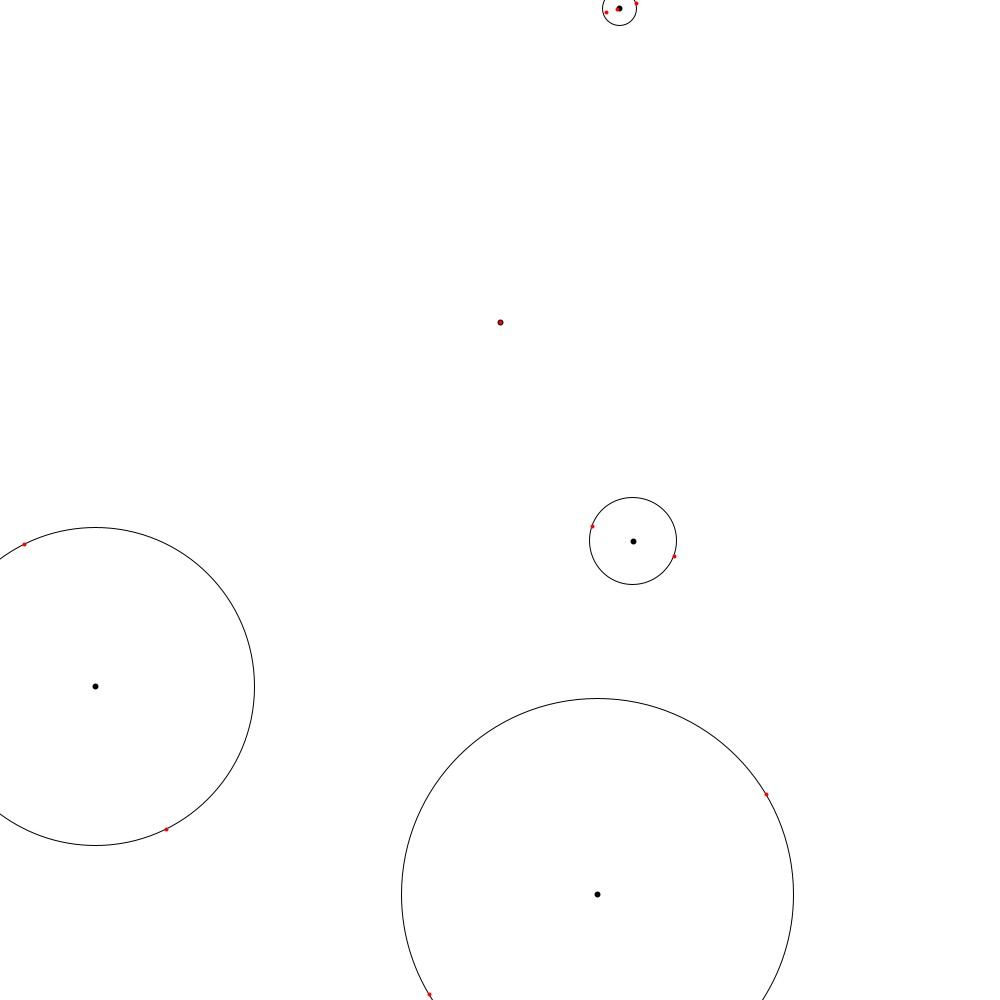
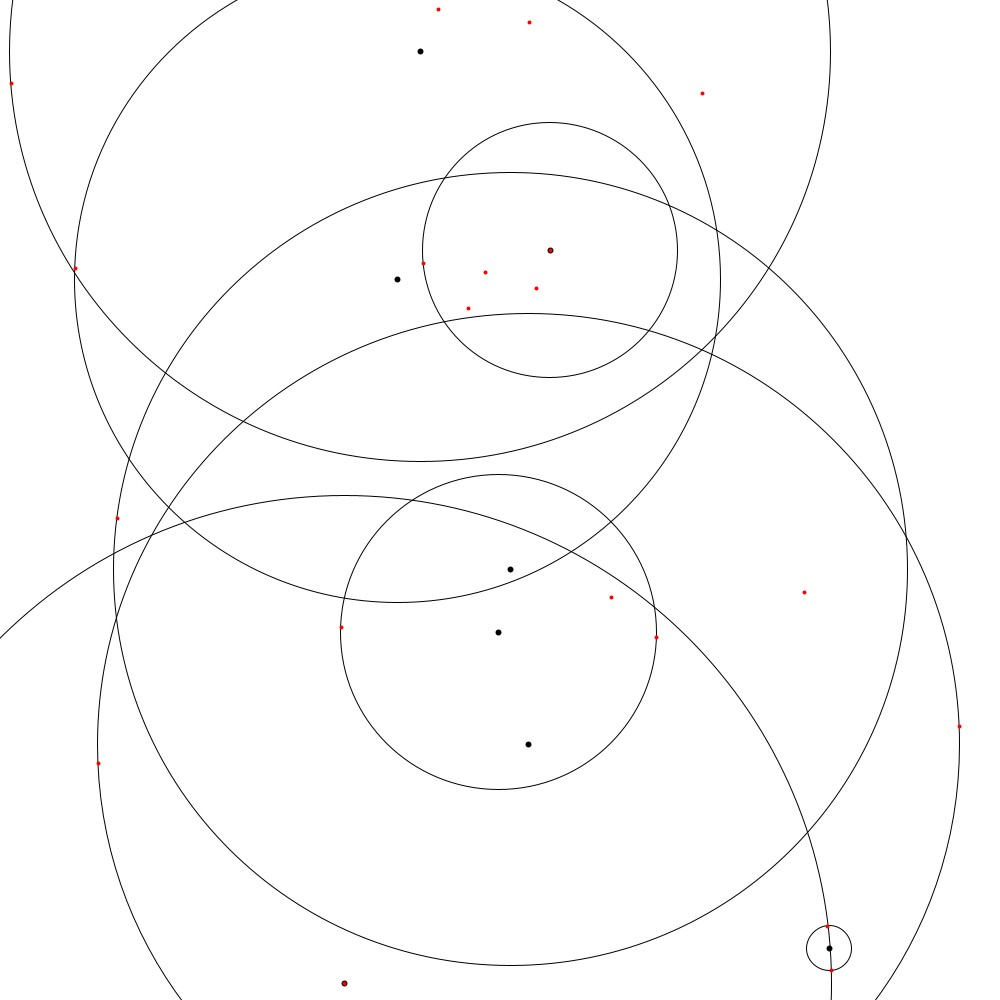
kmens elongated il marche pas sa grand mere

diff --git a/Projet LOO2/src/Plan/Matrice.java b/Projet LOO2/src/Plan/Matrice.java
@@ -57,9 +57,9 @@ public class Matrice {
      */
     public void setValeur(int x, int y, float nvVal){
         if(x >= 0 && x < dimX && y >= 0 && y < dimY)
-            valeur[x][y] = nvVal;
+            valeur[y][x] = nvVal;
         else{
-            System.out.println("Erreur de paramètre, x ou y ne sont pas compris entre 0 et "+ dimX + " ou " + dimY);
+            System.out.println("Erreur de paramètre [GetValeur], x(" + x + ") ou y(" + y + ") ne sont pas compris entre 0 et (x)"+ dimX + " ou (y)" + dimY);
         }
     }
 
@@ -71,9 +71,9 @@ public class Matrice {
      */
     public float getValeur(int x, int y){
         if(x >= 0 && x < dimX && y >= 0 && y < dimY)
-            return valeur[x][y];
+            return valeur[y][x];
         else{
-            System.out.println("Erreur de paramètre, x ou y ne sont pas compris entre 0 et "+ dimX + " ou " + dimY);
+            System.out.println("Erreur de paramètre [GetValeur], x(" + x + ") ou y(" + y + ") ne sont pas compris entre 0 et (x)"+ dimX + " ou (y)" + dimY);
             return -1;
         }
     }
@@ -98,13 +98,17 @@ public class Matrice {
      * @return matrice résultant de la multiplication
      */
     public Matrice multiplicationMatrice(Matrice mat2){
-        Matrice resultat = new Matrice(dimX, mat2.getDimY());
-        for(int i=0; i<2; i++){
-            for(int j=0; j<2; j++){ 
-              resultat.setValeur(i, j, 0);   
-              for(int k=0; k<2 ;k++)    
+        if(this.dimX != mat2.getDimY()){
+            System.err.println("Erreur: les matrices n'ont pas les bonnes dimensions : " + dimX + " , " + dimY + " et " + mat2.getDimX() + " , " + mat2.getDimY());
+            return null;
+        }
+        Matrice resultat = new Matrice(this.dimX, mat2.getDimY());
+        for(int i=0; i< this.dimY; i++){
+            for(int j=0; j< mat2.getDimX(); j++){ 
+              resultat.setValeur(j, i, 0);   
+              for(int k=0; k< this.dimX ;k++)    
               { 
-                resultat.setValeur(i, j, resultat.getValeur(i, j) + getValeur(i, k) * mat2.getValeur(k, j));    
+                resultat.setValeur(j, i, getValeur(k, i) * mat2.getValeur(j, k));    
               }
             }
           }  

diff --git a/Projet LOO2/src/Plan/Kmeans.java b/Projet LOO2/src/Plan/Kmeans.java
@@ -255,7 +255,9 @@ public class Kmeans {
     }
 
     public void setupk_meansElongated(){
+        covariances = new Matrice[nbClusters];
         for(int i = 0; i < nbClusters; i ++){
+            covariances[i] = new Matrice(2, 2);
             covariances[i].setToIdentite();
         }
         setupK_means();
@@ -271,9 +273,9 @@ public class Kmeans {
         for(int i = 0; i < nbClusters; i ++){
             covariances[i] = new Matrice(2, 2);
             for (Point p : centres[i].getPoints()) { // pour chaque points de ce cluster
-                Matrice a = new Matrice(1,2);
+                Matrice a = new Matrice(2,1);
                 a.setValeur(0, 0, p.getX() - centres[i].getX());
-                a.setValeur(0,1,  p.getY() - centres[i].getY());
+                a.setValeur(1,0,  p.getY() - centres[i].getY());
                 a = a.multiplicationMatrice(a.getTransposee());
                 covariances[i] = covariances[i].additionMatrice(a);
             }
@@ -353,14 +355,17 @@ public class Kmeans {
      * @return la distance de Mahalanobis
      */
     float getDistMahalanobis(Point centre, Point point, int numCluster){
-        Matrice a = new Matrice(1, 2);
+        Matrice a = new Matrice(2, 1);
         Matrice aTranspo = new Matrice(2, 2);
         Matrice covarienceInv = new Matrice(2, 2);
         a.setValeur(0, 0, point.getX() - centre.getX());
-        a.setValeur(0, 1, point.getY() - centre.getY());
+        a.setValeur(1, 0, point.getY() - centre.getY());
         aTranspo = a.getTransposee();
+        System.out.println("covarience " + covariances[numCluster]);
         covarienceInv = covariances[numCluster].getInvert2x2();
+        System.out.println("a : " + a + "covarience inv : " + covarienceInv);
         a = a.multiplicationMatrice(covarienceInv);
+        System.out.println(a);
         a = a.multiplicationMatrice(aTranspo);
         return (float) Math.sqrt(a.getValeur(0,0));
     }

diff --git a/Projet LOO2/src/Point/Point.java b/Projet LOO2/src/Point/Point.java
@@ -128,20 +128,7 @@ public class Point {
         return min;
     }
 
-    /**
-     * Retourne la valeur de l'indice du point du tableau "points" le plus proche
-     * @param points à comparer
-     * @return
-     */
-    public int getMinDistPointMahalanobis (Point[] points) {
-        int min = 0;
-        for (int i = 0; i < points.length; i++) { // pour tous les points de la liste
-            if (this.getDist(points[i]) <= this.getDist(points[min])) {
-                min = i;
-            }
-        }
-        return min;
-    }
+    
 
     public void setRandom(int maxX, int maxY){
         x = (int)(Math.random() * maxX);
